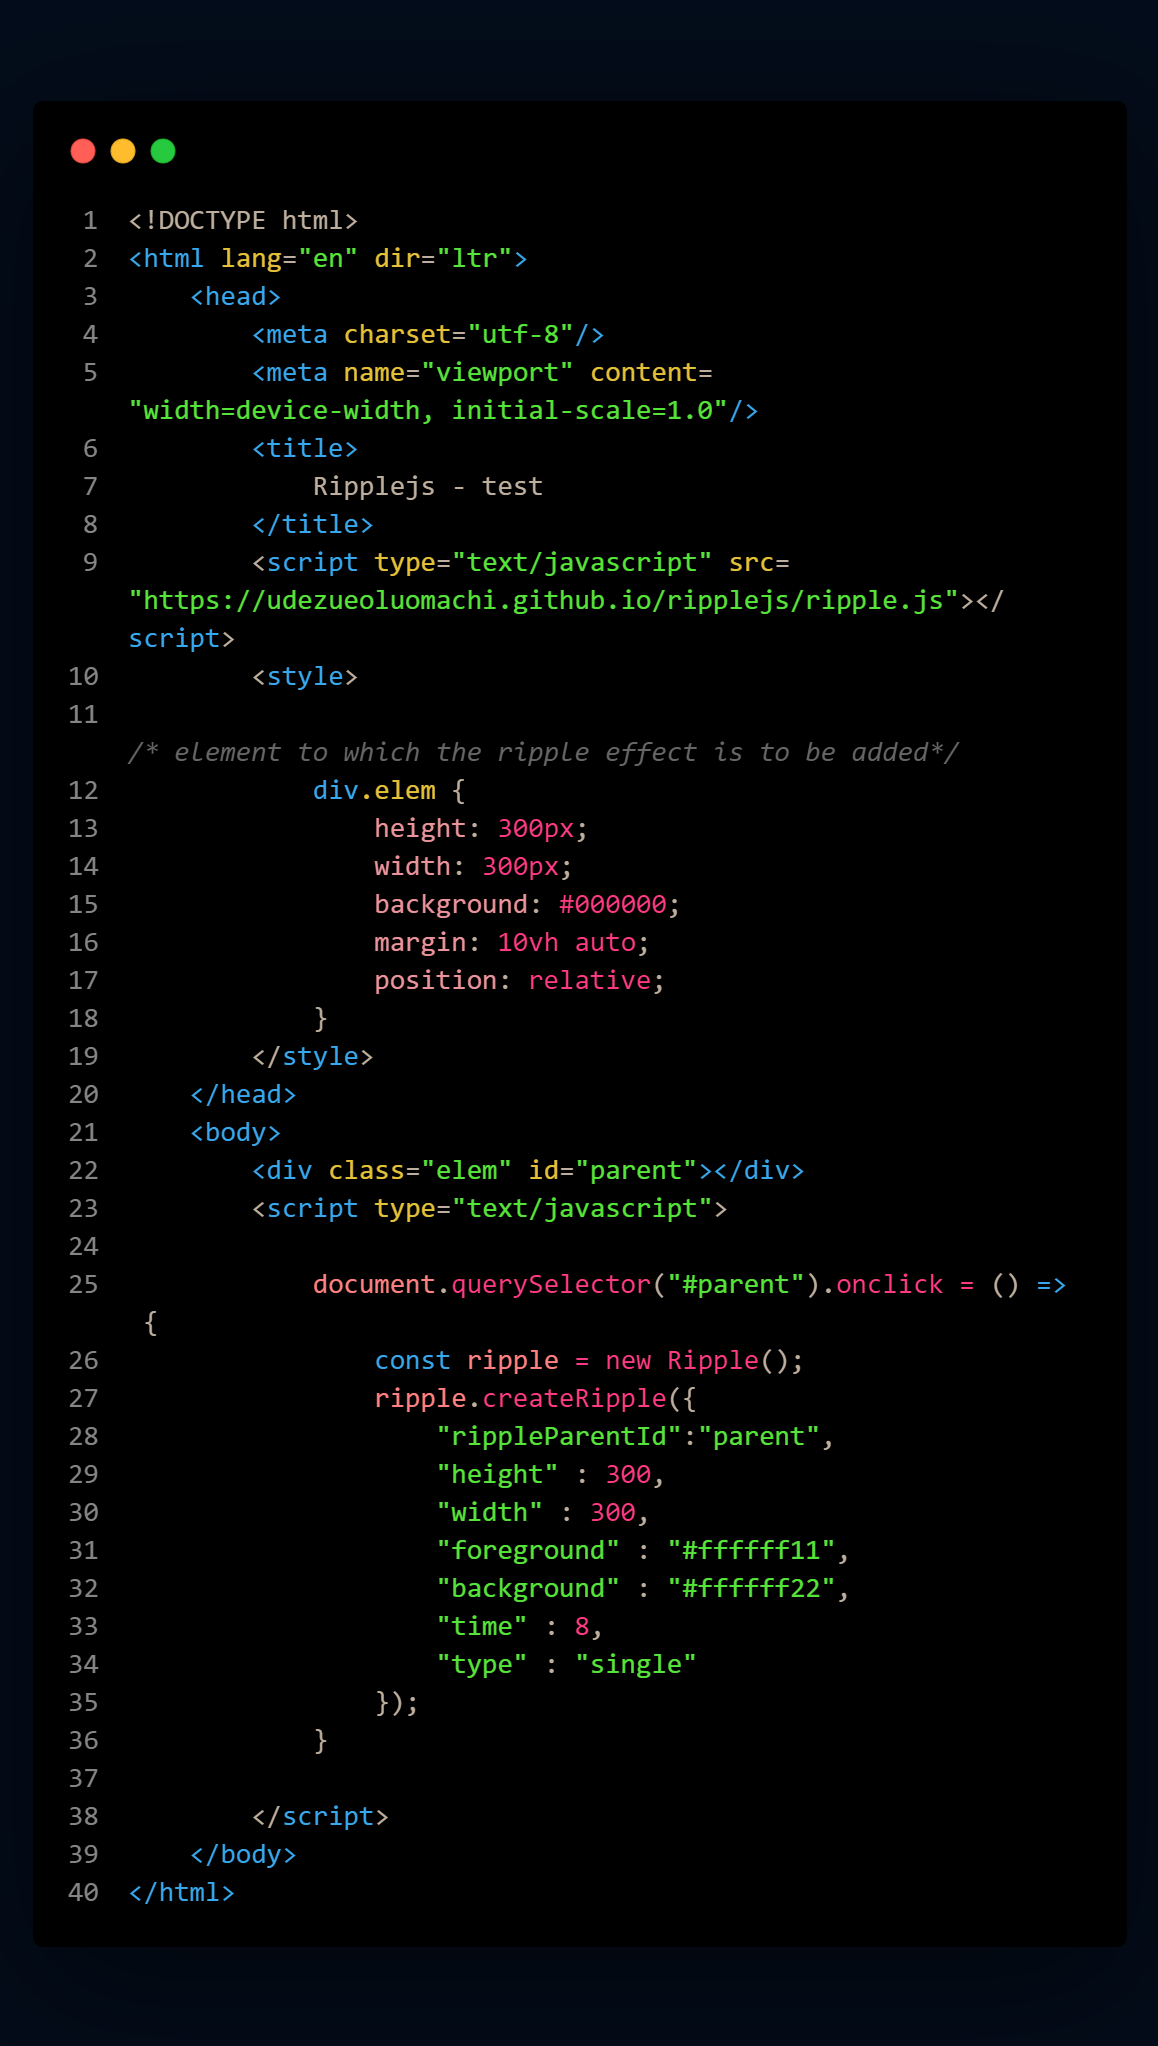
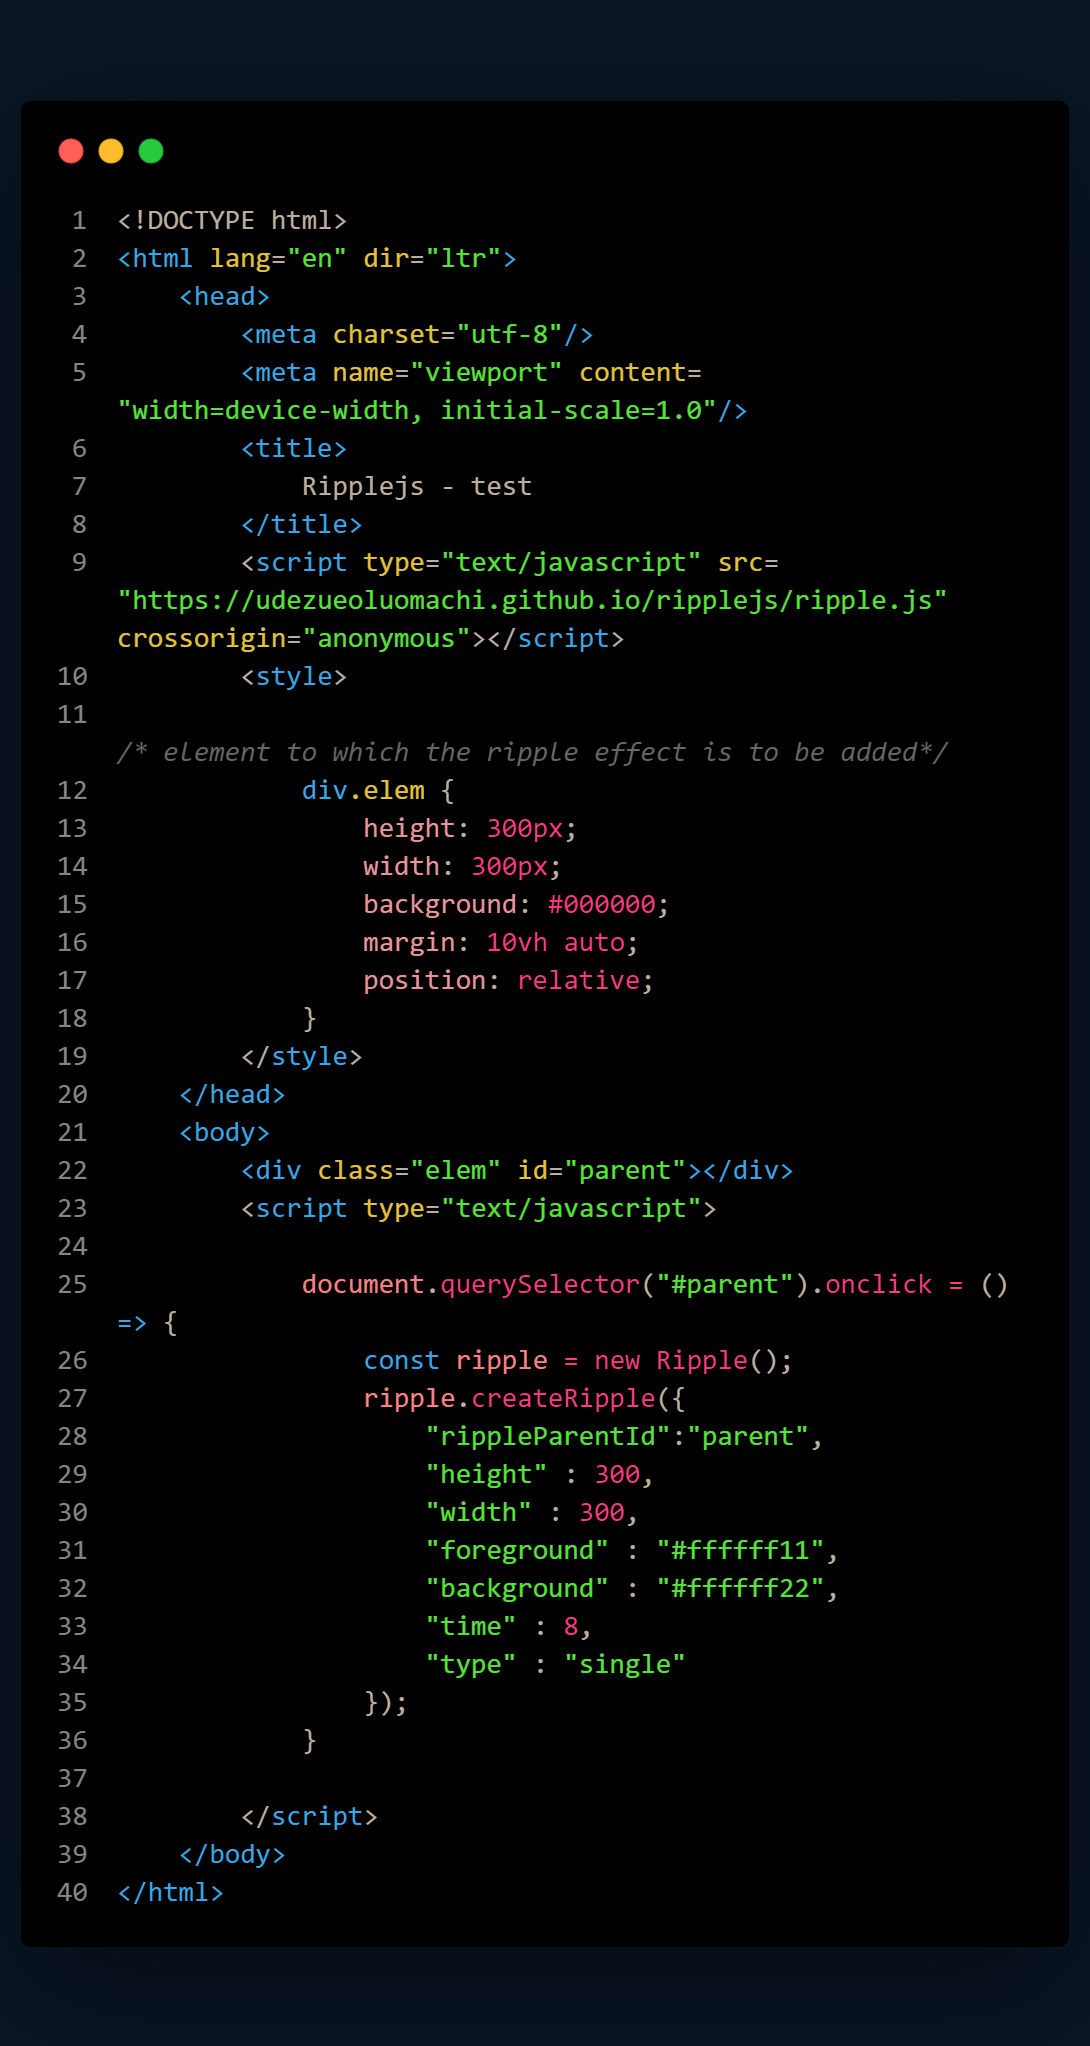
bug fixes

diff --git a/index.html b/index.html
@@ -6,7 +6,7 @@
         <title>
             Ripplejs - test
         </title>
-        <script type="text/javascript" src="https://udezueoluomachi.github.io/ripplejs/ripple.js"></script>
+        <script type="text/javascript" src="https://udezueoluomachi.github.io/ripplejs/ripple.js" crossorigin="anonymous"></script>
         <style>
             /* element to which the ripple effect is to be added*/
             div.elem {
@@ -31,7 +31,7 @@
                     "foreground" : "#ffffff11",
                     "background" : "#ffffff22",
                     "time" : 8,
-                    "type" : "single"
+                    "type" : "single",
                 });
             }
 

diff --git a/ripple.js b/ripple.js
@@ -61,7 +61,7 @@ class Ripple {
         const clearRipple = () => {
             ctx.rect(0, 0 ,rippleElem.width, rippleElem.height);
             ctx.closePath();
-            ctx.fillStyle = "black";
+            ctx.fillStyle = window.getComputedStyle(rippleParent , null).getPropertyValue("background-color");
             ctx.fill();
         }
         //this functions allows user to specify the ripple type

diff --git a/README.md b/README.md
@@ -9,7 +9,7 @@ Ripplejs is pretty easy to use just follow the steps below.
 
 1. Link ripplejs to your project via this _**<script type="text/javascript" src="https://udezueoluomachi.github.io/ripplejs/ripple.js"></script>**_ in the head section of your **HTML** document. Or you can simply **download** the **Ripplejs** source code from this repository and host it yourself or use it locally and of course, you have to add it in the _head section_ of your **HTML** document.
 
-2. The ripple().createRipple object functions based on mouse events so you have to add a mouse **event listener** to the HTML element you want to add the ripple effect to.
+2. The ripple().createRipple() object functions based on mouse events so you have to add a mouse **event listener** to the HTML element you want to add the ripple effect to.
 
 # Example
 
@@ -44,6 +44,8 @@ Ripplejs is pretty easy to use just follow the steps below.
 
 * You can only omit the values of properties which are optional.
 
+* Ripplejs might not add ripple effects to elements without **background-colors**.
+
 # Properties with optional values
 
 * The **type** property.
@@ -53,11 +55,11 @@ Ripplejs is pretty easy to use just follow the steps below.
 # Ommiting property values
 
 * To omit the value of a property of type _string_ just leave the quote marks empty
-  e.g {type : ""}
+  e.g { type : "" }
 
 # Applying CSS
 
-* The **ripple effect** is a member of your HTMl DOM tree for this fact, you can apply some css style to the **ripple effect element**.
+* The **ripple effect** is a member of your HTML DOM tree for this fact, you can apply some css style to the **ripple effect element**.
 
 * This feature was added to prevent the ripple from coming out of the edges of the elements to which the ripple effect is added.
   > A case is when you add **border radius** to the the element to which the ripple effect is added.
@@ -88,7 +90,7 @@ Ripplejs is pretty easy to use just follow the steps below.
 
 * By reporting bugs and giving suggestions on new features to add and how to improve it by creating issues on github about this repository.
 
-* By contributing to it because it is open sourc.e
+* By contributing to it because it is open source
 
 * You can also contact the creator via the links above if you want to provide funds.
 
